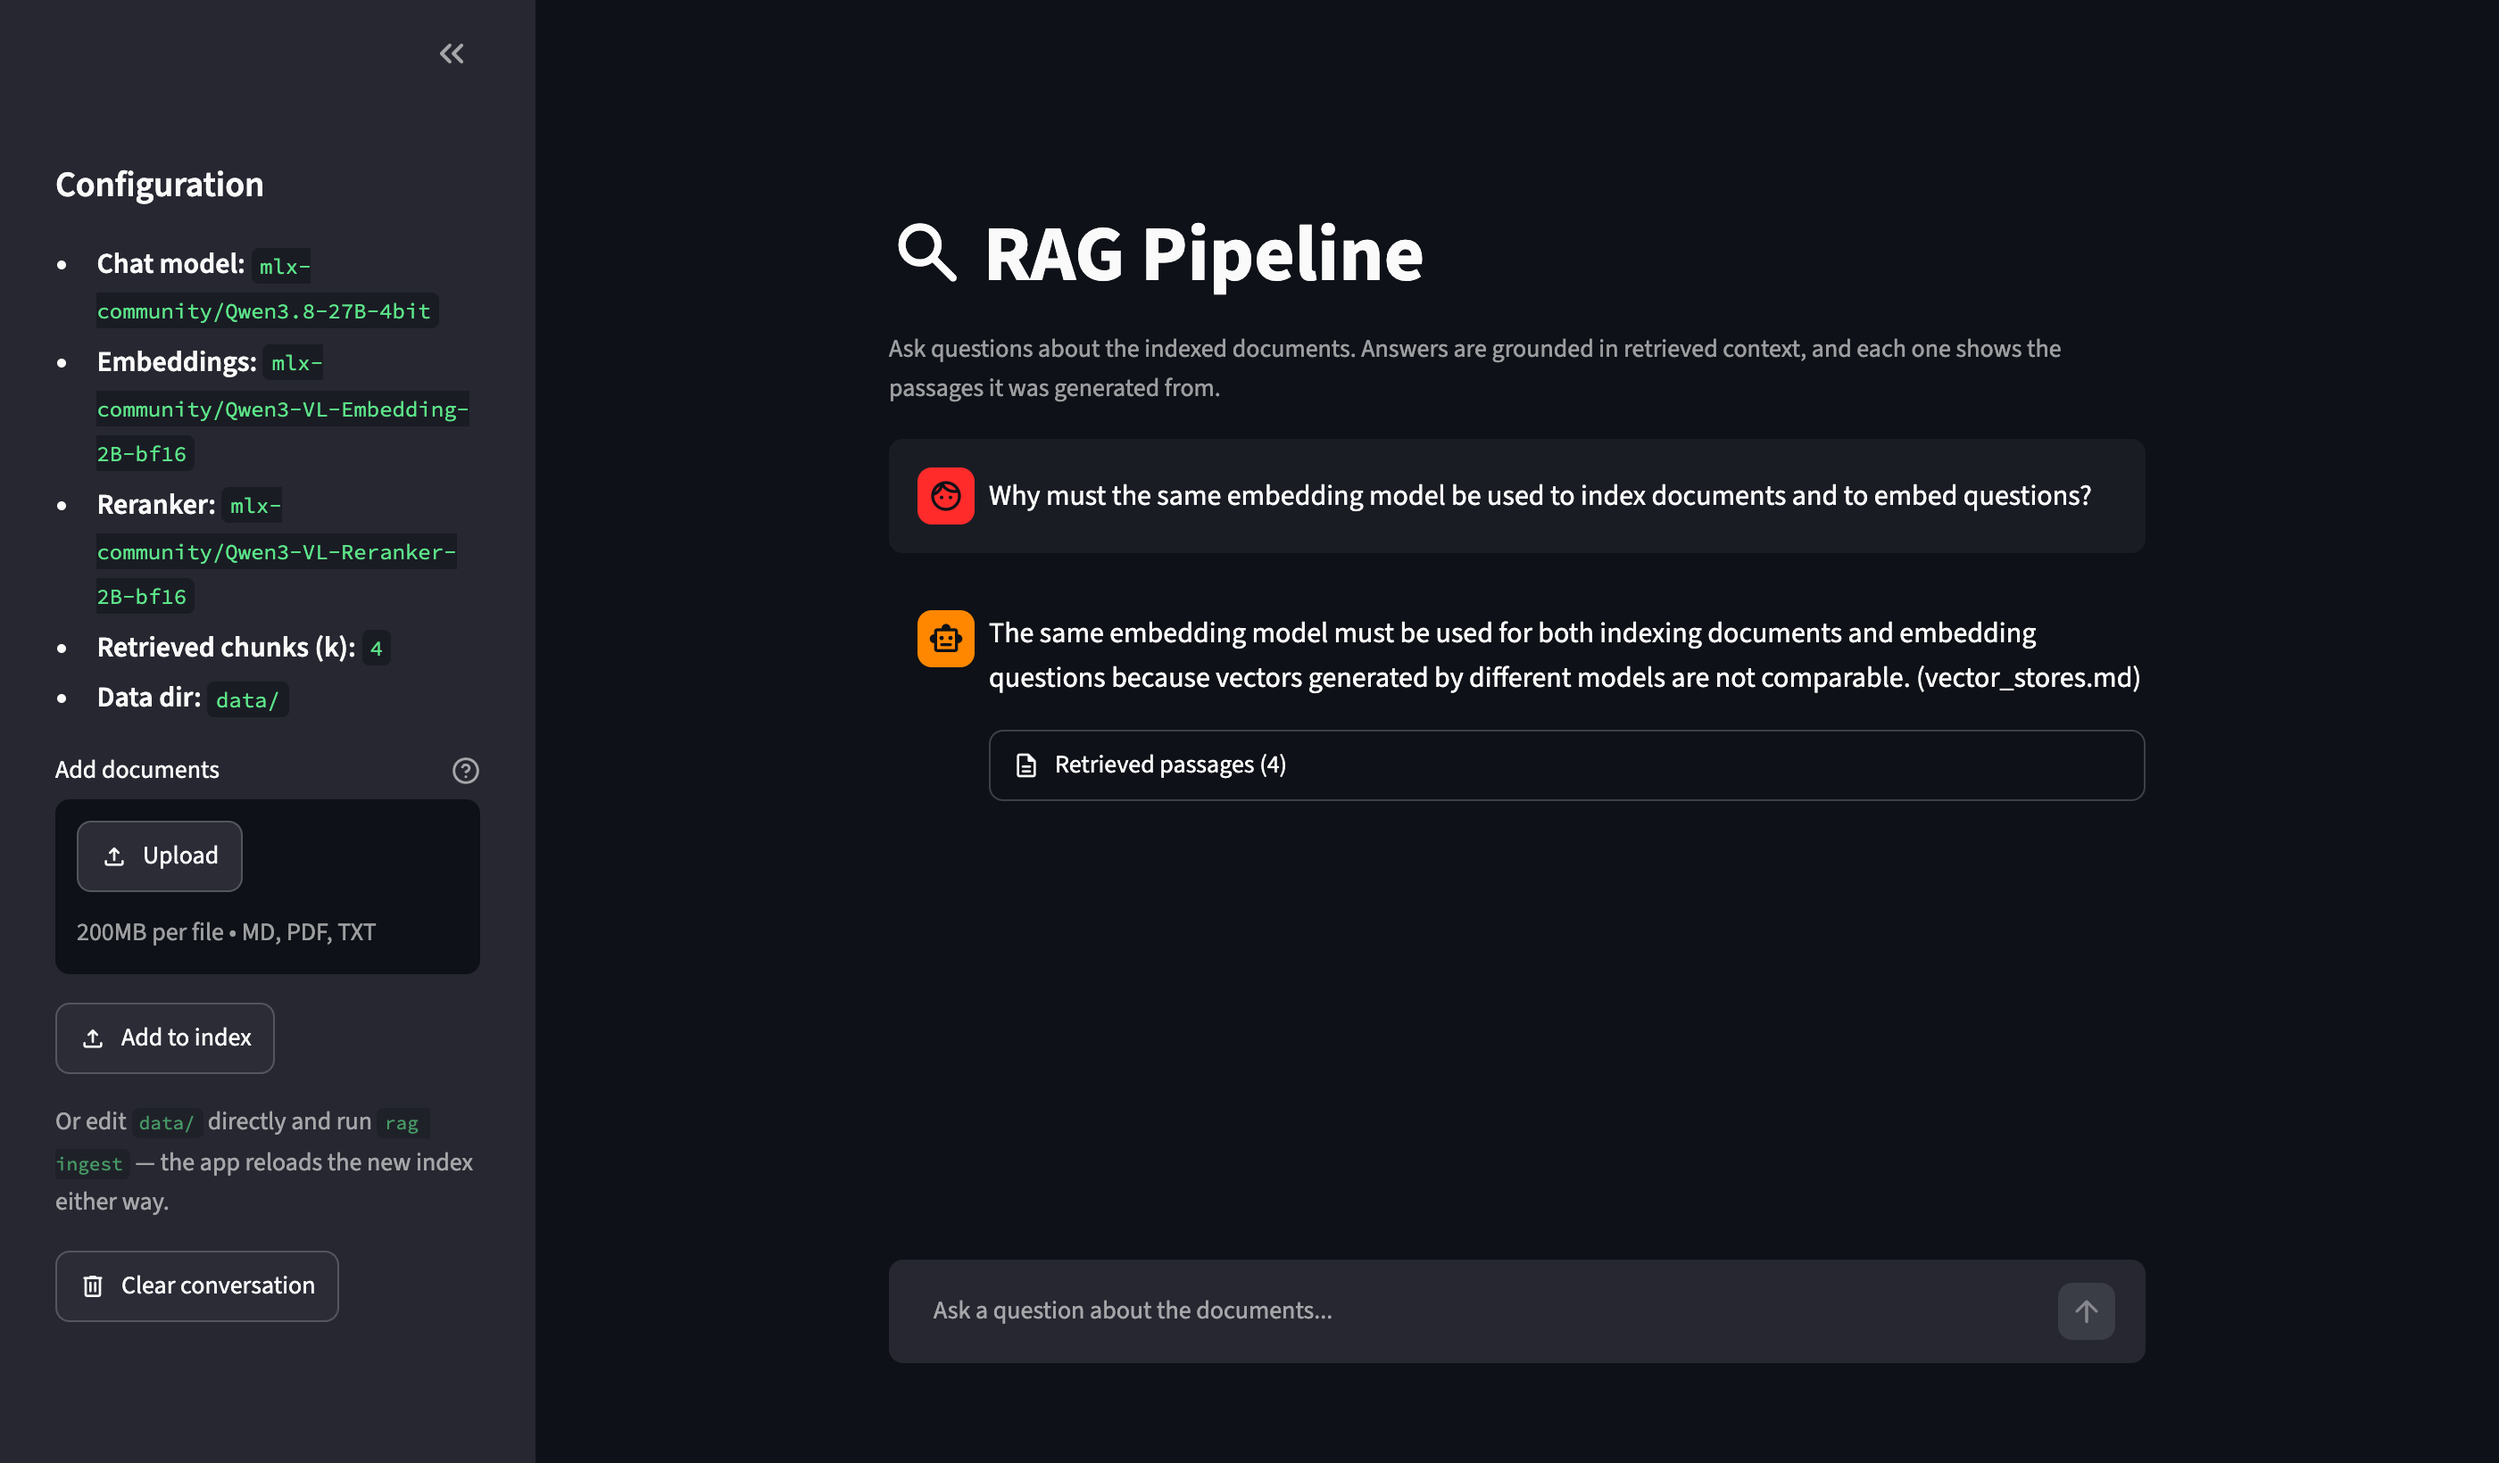
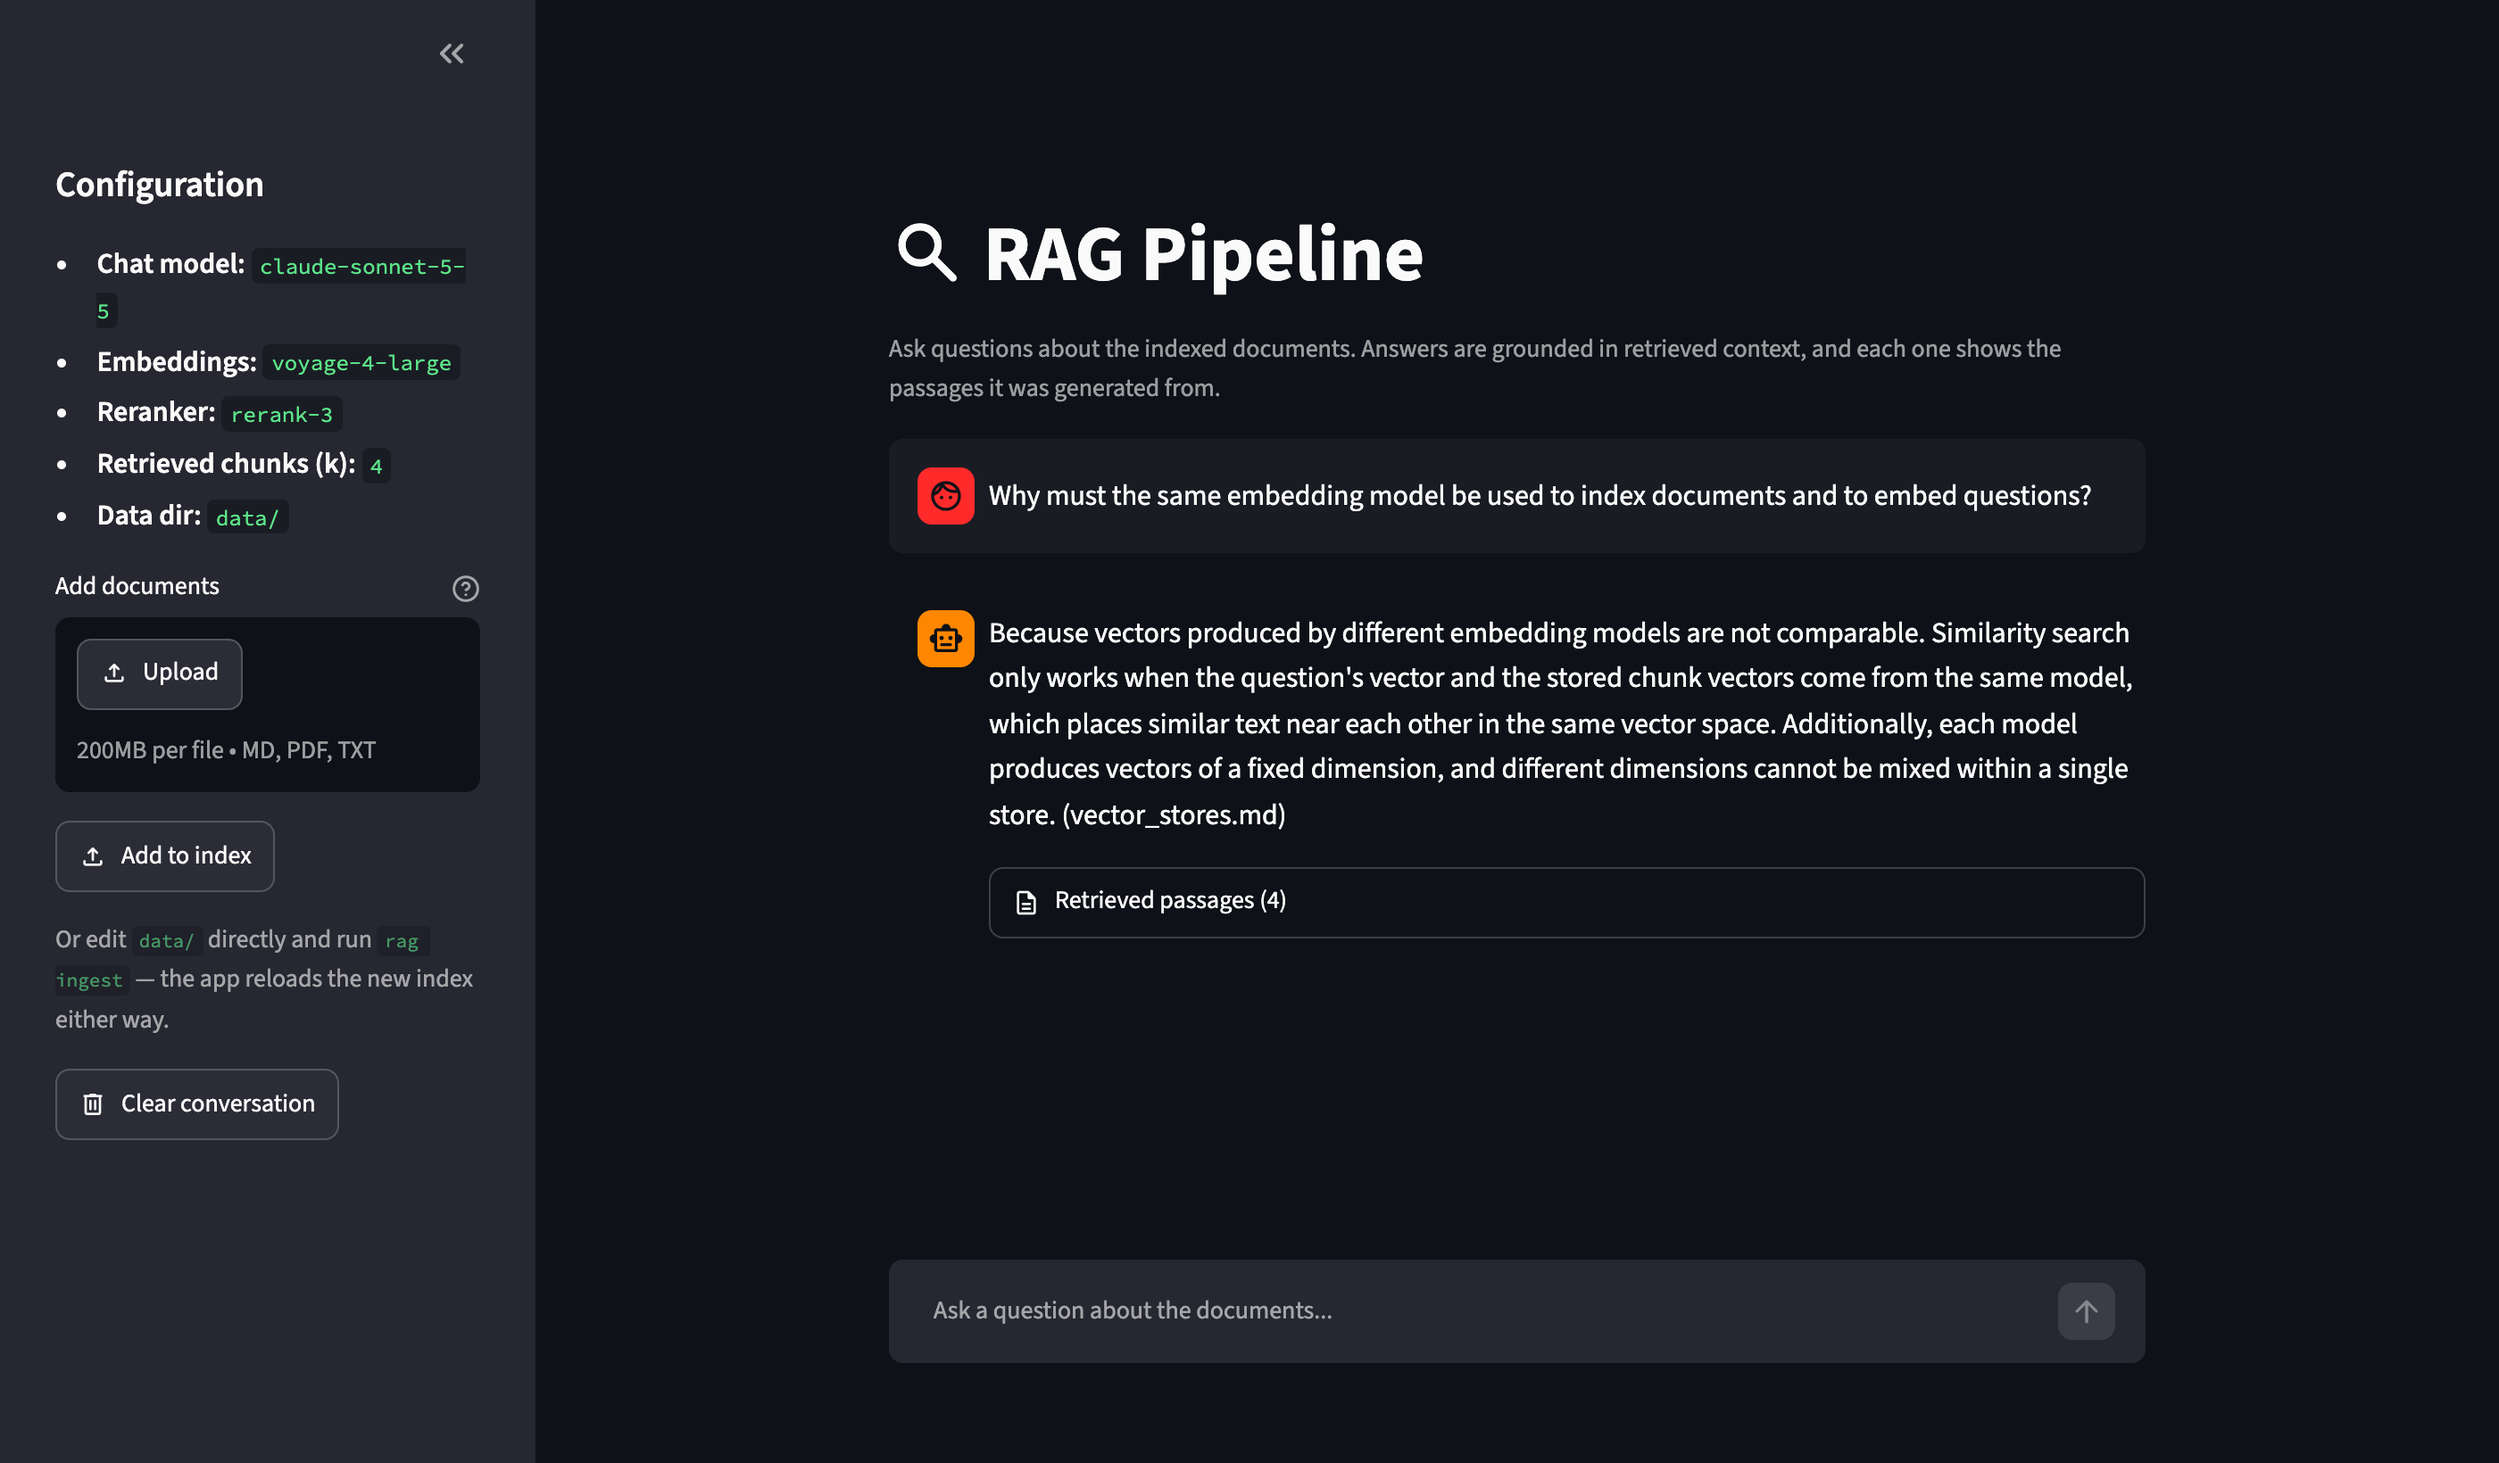
Finish the move to hosted services: docs, comments and screenshots
Phase 7. The README's two screenshots showed the Qwen models in the
sidebar; they are retaken on the new stack (claude-sonnet-5-5,
voyage-4-large, rerank-3), same question and framing. Comments and
docstrings that still described local models -- config's RETRIEVAL_K note,
the app's module docstring, the batch-order test's reasoning, the pipeline
tests' sample model failure -- now describe the services; deliberate
history (the chroma_db/ ignore, the eval baseline's origin) is kept.

Every check passes on Python 3.11 and 3.13: lint, format, types, the lock,
actionlint and 442 tests.

diff --git a/tests/test_pipeline.py b/tests/test_pipeline.py
@@ -95,7 +95,8 @@ def test_pipeline_requires_index(settings):
     """A fresh checkout is told to run `rag ingest`, without loading a model first.
 
     No models injected (see the module docstring): the FileNotFoundError is also
-    the proof that the check runs before the ~22 GB of local models would load.
+    the proof that the check runs before any model client is built (conftest
+    has removed the keys, so a factory reached first would fail differently).
     And looking must not create what it looked for -- an empty collection left
     behind would turn the next attempt's message into a different one.
     """
@@ -659,8 +660,8 @@ class _StopScript(BaseException):
 
 
 def _failing_embeddings(error: BaseException) -> Embeddings:
-    """Embeddings that fail as the local model does: its adapter has already
-    turned the failure into `error`."""
+    """Embeddings that fail as the real ones do: provider_errors_as_runtime has
+    already turned Voyage's failure into `error`."""
 
     class _Failing(Embeddings):
         def embed_documents(self, texts: list[str]) -> list[list[float]]:
@@ -731,9 +732,9 @@ def test_model_errors_pass_through_unchanged(
 # page.
 _FRONTEND_EXCEPTIONS = (FileNotFoundError, RuntimeError, ValueError)
 
-# How the local models fail by the time the pipeline sees them: already a
-# RuntimeError naming the model, from the adapter.
-_MODEL_FAILURE = "Generation with 'some-org/some-model' failed: [metal] out of memory"
+# How a model fails by the time the pipeline sees them: already a RuntimeError
+# naming the model, from the adapter.
+_MODEL_FAILURE = "Claude (claude-test) request failed: Error code: 529 - overloaded"
 
 
 def _fail_ingest_missing_data_dir(
@@ -941,7 +942,7 @@ def _ingested_pipeline(settings, fake_embeddings, llm, reranker) -> RAGPipeline:
 def _fail_retrieve_on_embedding_error(
     settings, fake_embeddings, fake_reranker, monkeypatch, tmp_path
 ):
-    # The question is embedded by the same local model at query time, so its
+    # The question is embedded by the same Voyage model at query time, so its
     # failure has to hold the same way as at ingest.
     ingest_mod.ingest(settings, embeddings=fake_embeddings)
     RAGPipeline(
@@ -1056,7 +1057,7 @@ def _fail_stream_answer_on_empty_response(
         pytest.param(
             _fail_ingest_on_embedding_error,
             RuntimeError,
-            "out of memory",
+            "overloaded",
             id="ingest-embedding-error",
         ),
         pytest.param(
@@ -1146,13 +1147,13 @@ def _fail_stream_answer_on_empty_response(
         pytest.param(
             _fail_retrieve_on_embedding_error,
             RuntimeError,
-            "out of memory",
+            "overloaded",
             id="retrieve-embedding-error",
         ),
         pytest.param(
             _fail_retrieve_on_rerank_error,
             RuntimeError,
-            "out of memory",
+            "overloaded",
             id="retrieve-rerank-error",
         ),
         pytest.param(
@@ -1164,13 +1165,13 @@ def _fail_stream_answer_on_empty_response(
         pytest.param(
             _fail_answer_on_model_error,
             RuntimeError,
-            "out of memory",
+            "overloaded",
             id="answer-model-error",
         ),
         pytest.param(
             _fail_stream_answer_on_model_error,
             RuntimeError,
-            "out of memory",
+            "overloaded",
             id="stream-answer-model-error",
         ),
         pytest.param(

diff --git a/tests/test_ingest.py b/tests/test_ingest.py
@@ -612,9 +612,9 @@ def test_reingest_embeds_nothing_when_no_document_changed(
 ):
     """The saving that justifies the fingerprint at all.
 
-    Embedding is a forward pass of a local model for every chunk, and the app
-    re-ingests on every upload, so re-ingesting an unchanged corpus must cost
-    nothing -- not even the width probe. Asserted on the embedder rather than
+    Embedding is a paid Voyage call for every chunk, and the app re-ingests on
+    every upload, so re-ingesting an unchanged corpus must cost nothing -- not
+    even the width probe. Asserted on the embedder rather than
     the returned count, which is deliberately the same both times.
     """
     ingest_mod.ingest(settings, embeddings=counting_embeddings)
@@ -695,10 +695,11 @@ def test_documents_are_embedded_in_the_same_order_every_run(
 ):
     """The same corpus reaches the embedder in the same order, run after run.
 
-    The order decides which chunks share a padded batch, and the local model's
-    bf16 arithmetic varies in the last bits with a batch's shape. In a set's
-    order -- which moves with each process's hash seed -- rebuilding the same
-    corpus would not reproduce its own vectors. Ten sources, so an unordered
+    The order decides which chunks share a request, and a model need not return
+    bit-identical vectors for a text batched beside different neighbours (the
+    local models of earlier versions did not). In a set's order -- which moves
+    with each process's hash seed -- rebuilding the same corpus would send
+    different requests every time. Ten sources, so an unordered
     run matching by chance is out of the question.
     """
     for i in range(8):

diff --git a/rag_pipeline/config.py b/rag_pipeline/config.py
@@ -3,7 +3,7 @@
 Every tunable lives here and is sourced from environment variables (loaded from
 a local ``.env`` if present). Both the CLI and the Streamlit app build their
 ``Settings`` from :meth:`Settings.from_env`, so they always agree on which Atlas
-collection holds the index, which local models to load, and how documents are
+collection holds the index, which models to call, and how documents are
 chunked.
 """
 
@@ -138,10 +138,9 @@ class Settings:
     chunk_size: int = 1000
     chunk_overlap: int = 200
 
-    # Number of chunks kept after reranking and stuffed into the prompt. It is
-    # also what sets time-to-first-token: the local model reads the whole prompt
-    # (at roughly 100-150 tokens/s) before it writes, so every extra chunk adds
-    # a couple of seconds.
+    # Number of chunks kept after reranking and stuffed into the prompt. Each
+    # one is about 250 more input tokens on every question, paid for and read
+    # by the model before it writes.
     retrieval_k: int = 4
 
     # Candidates pulled from vector search before the reranker narrows them to

diff --git a/tests/test_streamlit_app.py b/tests/test_streamlit_app.py
@@ -374,8 +374,8 @@ def test_a_failure_is_labelled_with_the_phase_that_raised(
     """An error turn names the step that failed, so it points at the right fix.
 
     The case that is easy to get wrong is generation failing before its first
-    piece. The local model reads the whole prompt before it produces anything,
-    so the app waits for that piece under a spinner of its own -- and a failure
+    piece. The model reads the whole prompt before it produces anything, so
+    the app waits for that piece under a spinner of its own -- and a failure
     during the wait has streamed nothing yet. It is still generation's: labelled
     "Retrieval failed", it would send the user to check an index that worked.
     """

diff --git a/rag_pipeline/ingest.py b/rag_pipeline/ingest.py
@@ -136,7 +136,8 @@ def build_embeddings(settings: Settings) -> Embeddings:
 
 # One MongoClient per (URI, timeout) for the life of the process. A client is a
 # connection pool that always reads the server's current state, so -- unlike
-# a cached on-disk store -- it is never stale and must not be rebuilt per
+# the cached on-disk store of earlier versions -- it is never stale and must
+# not be rebuilt per
 # pipeline: closing one closes it under every pipeline still using it.
 # reset_store_cache() exists for the tests. The lock makes the lazy create
 # atomic, so two Streamlit sessions cannot each build one and leak the loser.

diff --git a/streamlit_app.py b/streamlit_app.py
@@ -2,10 +2,9 @@
 
 Run with:  uv run streamlit run streamlit_app.py
 
-Uses the same Settings and RAGPipeline as the CLI. The pipeline (Atlas index
-+ local models) is cached with st.cache_resource, so it is built once per index
-version for the whole server rather than on every rerun; the models behind it
-load once per process however often it is rebuilt.
+Uses the same Settings and RAGPipeline as the CLI. The pipeline (the Atlas
+index and the model clients) is cached with st.cache_resource, so it is built
+once per index version for the whole server rather than on every rerun.
 """
 
 from __future__ import annotations
